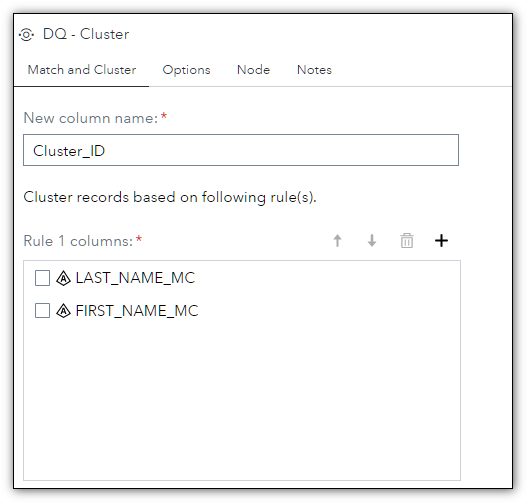
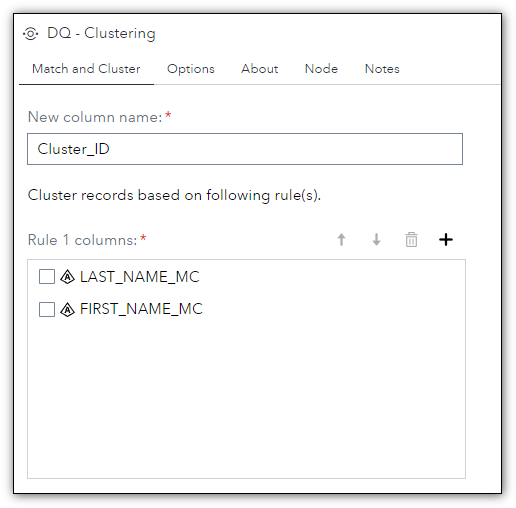
DQ Clustering step added

diff --git a/DQClustering/README.md b/DQClustering/README.md
@@ -2,7 +2,7 @@
 
 ## Description  
 
-The **DQ - Clustering** allows you to create a cluster match code using columns that can be defined with 1 or 3 rules.  
+The **DQ - Clustering** step allows you to create a cluster match code based on defined rules; each rule can contain one or more columns. This version supports up to three rules.  
 
 ## User Interface
 
@@ -29,5 +29,5 @@ The **DQ - Clustering** allows you to create a cluster match code using columns 
 
 ## Change Log
 
-* Version 1 (14SEP2022)
+* Version 1.0 (14SEP2022)
     * Initial version
